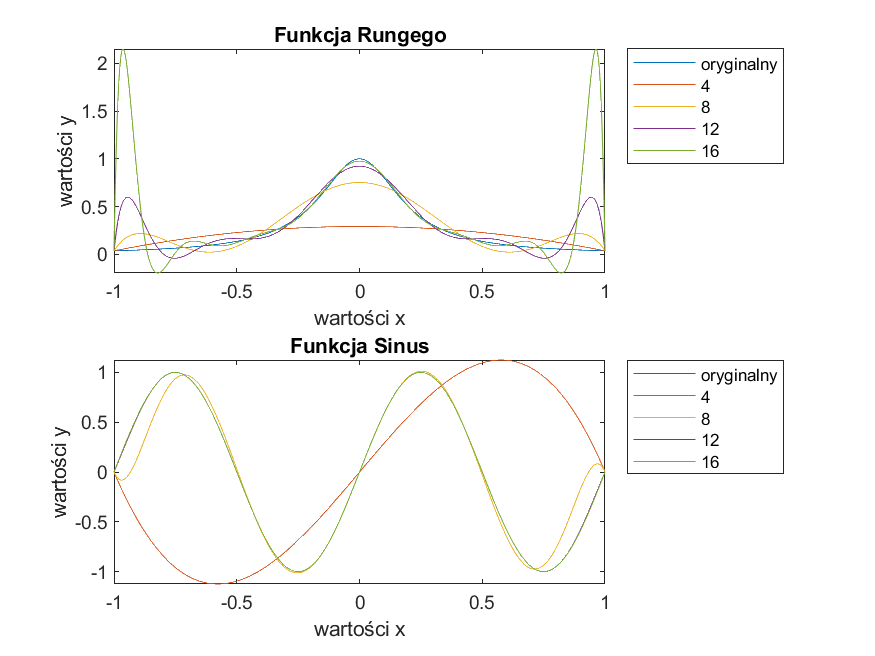
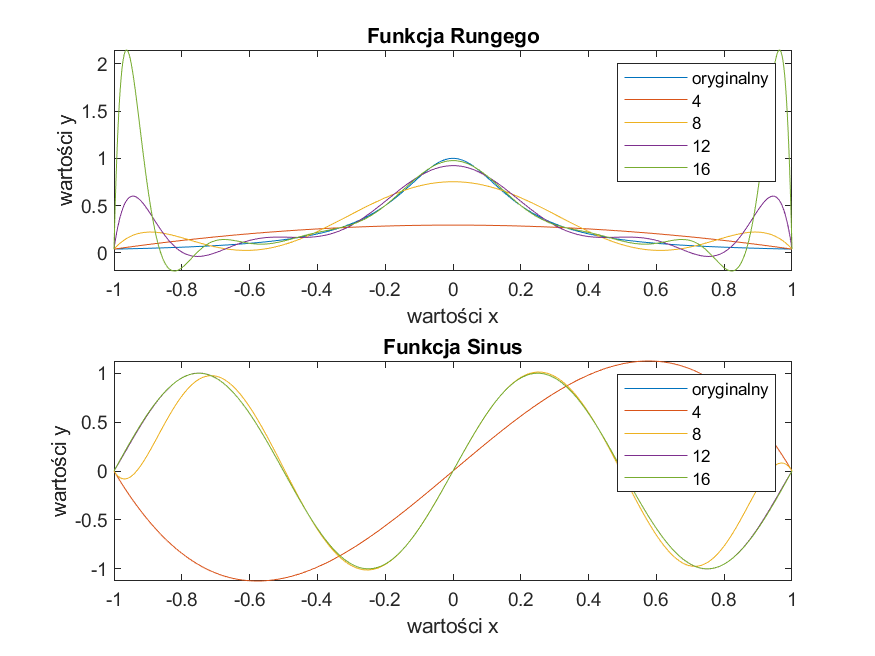
changes

diff --git a/Metody_Numeryczne_lab/lab5/zadanie5.m b/Metody_Numeryczne_lab/lab5/zadanie5.m
@@ -1,7 +1,8 @@
-function [M,N,P,R,x_coarse,y_coarse,F_coarse,x_fine,y_fine,F_fine] = zadanie4()
+function [M,N,P,R,x_coarse,y_coarse,F_coarse,x_fine,y_fine,F_fine] = zadanie5()
 
-P = 50; % liczba unikalnych współrzędnych x punktów dla których będzie obliczana interpolacja
-R = 50; % liczba unikalnych współrzędnych y punktów dla których będzie obliczana interpolacja
+
+P = 150; % liczba unikalnych współrzędnych x punktów dla których będzie obliczana interpolacja
+R = 150; % liczba unikalnych współrzędnych y punktów dla których będzie obliczana interpolacja
 M = 30; % liczba węzłów interpolacji wzdłuż osi X (stopień wielomianu zmiennej x: M-1)
 N = 30; % liczba węzłów interpolacji wzdłuż osi Y (stopień wielomianu zmiennej y: N-1)
 
@@ -9,7 +10,6 @@ N = 30; % liczba węzłów interpolacji wzdłuż osi Y (stopień wielomianu zmie
 x_coarse = linspace(0, 1, M);
 y_coarse = linspace(0, 1, N);
 [X_coarse, Y_coarse] = meshgrid(x_coarse, y_coarse);
-
 F_coarse = sin(X_coarse*2*pi) .* abs(Y_coarse-0.5);
 
 
@@ -45,20 +45,11 @@ y_fine = linspace(0, 1, R);
 F_fine = zeros(size(X_fine));
 % zadanie B: zdefiniuj obliczenia wartości wielomianu interpolującego. Rezultat obliczeń zapisz w zmiennej F_fine.
 
-for x = 1:P
-    for y = 1:R
-        F = 0;
-        for i = 0:(M-1)
-            for j = 0:(N-1)
-            % Indeks współczynnika w wektorze coeffs
-                idx = M * i + j + 1;
-            % Dodanie składnika wielomianu
-                F = F + coeffs(idx) * x_fine(x)^i * y_fine(y)^j;
-            end
-        end
-        F_fine(y,x) = F;
-        
+for i = 0:(M-1)
+    for j = 0:(N-1)
+        F_fine = F_fine + coeffs(i*N + j + 1) * X_fine.^i .* Y_fine.^j;
     end
+
 end
 
 subplot(2,1,2);

diff --git a/Metody_Probabilistyczne_lab/lab4/main.py b/Metody_Probabilistyczne_lab/lab4/main.py
@@ -1,0 +1,44 @@
+import random
+
+n = 100000
+
+X = [1, 2, 3, 4]
+F_X = [0.5, 0.7, 0.9, 1]
+F_Y_1 = [0.2, 0.2, 0.2, 1]
+F_Y_2 = [1, 1, 1, 1]
+F_Y_3 = [0, 0.5, 0.5, 1]
+F_Y_4 = [0, 0, 1, 1]
+
+x_temp = 0
+y_temp = 0
+
+wyniki = [[0 for _ in range(4)] for _ in range(4)]
+
+for _ in range(n):
+    y = random.random()
+    for j in range(4):
+        if y < F_X[j]:
+            x_temp = X[j]
+            if x_temp == 1:
+                F = F_Y_1
+            elif x_temp == 2:
+                F = F_Y_2
+            elif x_temp == 3:
+                F = F_Y_3
+            else:
+                F = F = F_Y_4
+
+            y2 = random.random()
+            for i in range(4):
+                if y2 < F[i]:
+                    y_temp = X[i]
+                    break
+            break
+    wyniki[x_temp-1][y_temp-1] +=1
+
+
+print("   1 ", " 2 ", " 3 ", " 4 ")
+print("1", wyniki[0])
+print("2", wyniki[1])
+print("3", wyniki[2])
+print("4", wyniki[3])

diff --git a/Metody_Numeryczne_lab/lab5/zadanie4.m b/Metody_Numeryczne_lab/lab5/zadanie4.m
@@ -16,7 +16,6 @@ F_coarse = zeros(N,M);
 for i = 1:M
     for j = 1:N
         F_coarse(j,i) =  sin(2 * power(x_coarse(i),3)+pi*power(y_coarse(j),4));
-        
     end
 end
 
@@ -53,10 +52,9 @@ y_fine = linspace(0, 1, R);
 F_fine = zeros(size(X_fine));
 % zadanie B: zdefiniuj obliczenia wartości wielomianu interpolującego. Rezultat obliczeń zapisz w zmiennej F_fine.
 
-for i = 1:P
-    for j = 1:R
-        F_fine(j,i) =  coeffs(1)+coeffs(2)*y_fine(j)+coeffs(3)*power(y_fine(j),2)+coeffs(4)*x_fine(i)+coeffs(5)*x_fine(i)*y_fine(j)+coeffs(6)*x_fine(i)*power(y_fine(j),2);
-        
+for i = 0:(M-1)
+    for j = 0:(N-1)
+        F_fine = F_fine + coeffs(i*N + j + 1) * X_fine.^i .* Y_fine.^j;
     end
 end
 
